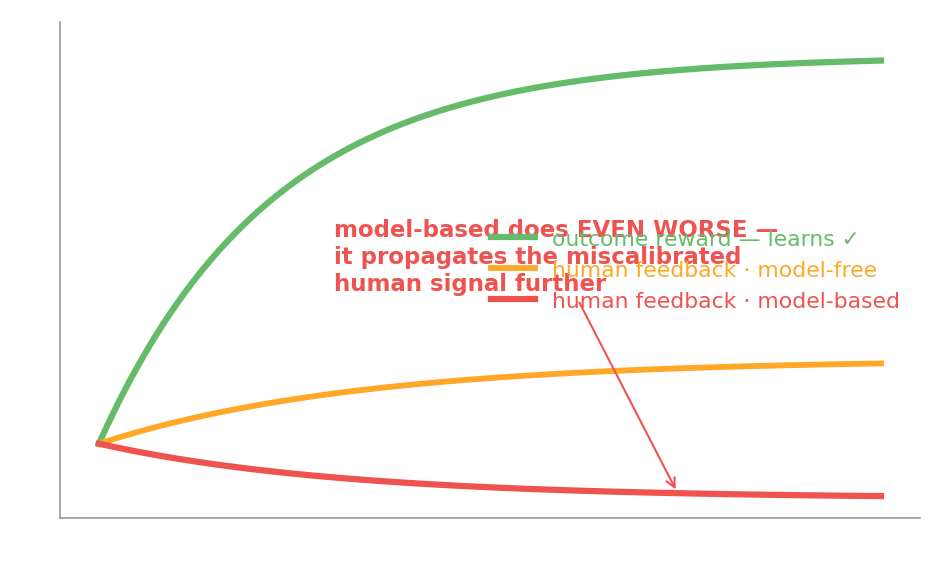
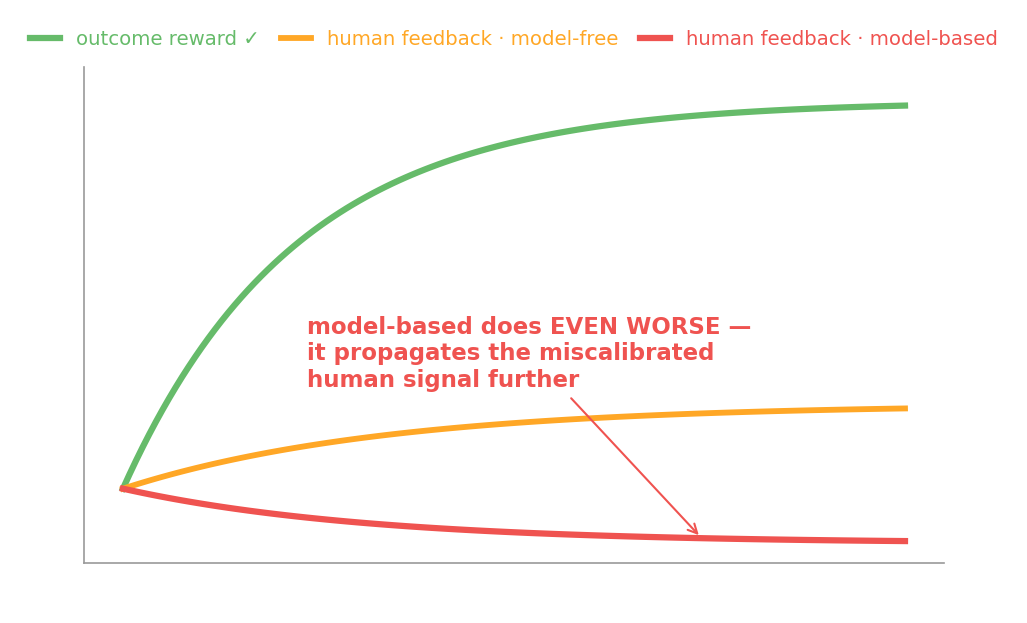
autosync beancupter 2026-06-15T15:00:01+09:00

Changed region(s): [[0.0308, 0.0311, 0.9851, 0.9031], [0.6773, 0.7474, 0.7081, 0.8097], [0.6157, 0.7474, 0.6465, 0.7785]]

diff --git a/course/week08_sdt_mdp_rl/make_figures.py b/course/week08_sdt_mdp_rl/make_figures.py
@@ -590,16 +590,18 @@ def fig_ho_modelbased():
     rm = 0.15 + 0.78 * (1 - np.exp(-4.5 * t))          # outcome reward: learns the task
     af_mf = 0.15 + 0.17 * (1 - np.exp(-3.0 * t))       # human feedback, model-free: poor
     af_mb = 0.15 - 0.11 * (1 - np.exp(-3.2 * t))       # human feedback, model-based: WORSE
-    ax.plot(t, rm, color=GREEN, lw=3, label="outcome reward — learns ✓")
+    ax.plot(t, rm, color=GREEN, lw=3, label="outcome reward ✓")
     ax.plot(t, af_mf, color=ORANGE, lw=2.8, label="human feedback · model-free")
     ax.plot(t, af_mb, color=RED, lw=3, label="human feedback · model-based")
     ax.annotate("model-based does EVEN WORSE —\nit propagates the miscalibrated\nhuman signal further",
-                xy=(0.74, 0.15 - 0.11 * (1 - np.exp(-3.2 * 0.74))), xytext=(0.30, 0.46),
-                color=RED, fontsize=11, fontweight="bold",
+                xy=(0.74, 0.15 - 0.11 * (1 - np.exp(-3.2 * 0.74))), xytext=(0.235, 0.50),
+                color=RED, fontsize=11, fontweight="bold", va="top", ha="left",
                 arrowprops=dict(arrowstyle="->", color=RED))
     ax.set_xlabel("training →"); ax.set_ylabel("task performance")
     ax.set_xticks([]); ax.set_yticks([]); ax.set_ylim(0, 1.0)
-    ax.legend(fontsize=10.5, frameon=False, labelcolor="linecolor", loc="center right")
+    # legend ABOVE the plot (horizontal) so it never collides with the curves or the annotation
+    ax.legend(fontsize=9.5, frameon=False, labelcolor="linecolor", loc="lower center",
+              bbox_to_anchor=(0.5, 1.0), ncol=3, columnspacing=1.1, handlelength=1.5)
     for sp in ("top", "right"): ax.spines[sp].set_visible(False)
     save(fig, "ho-modelbased-worse.png")
 
